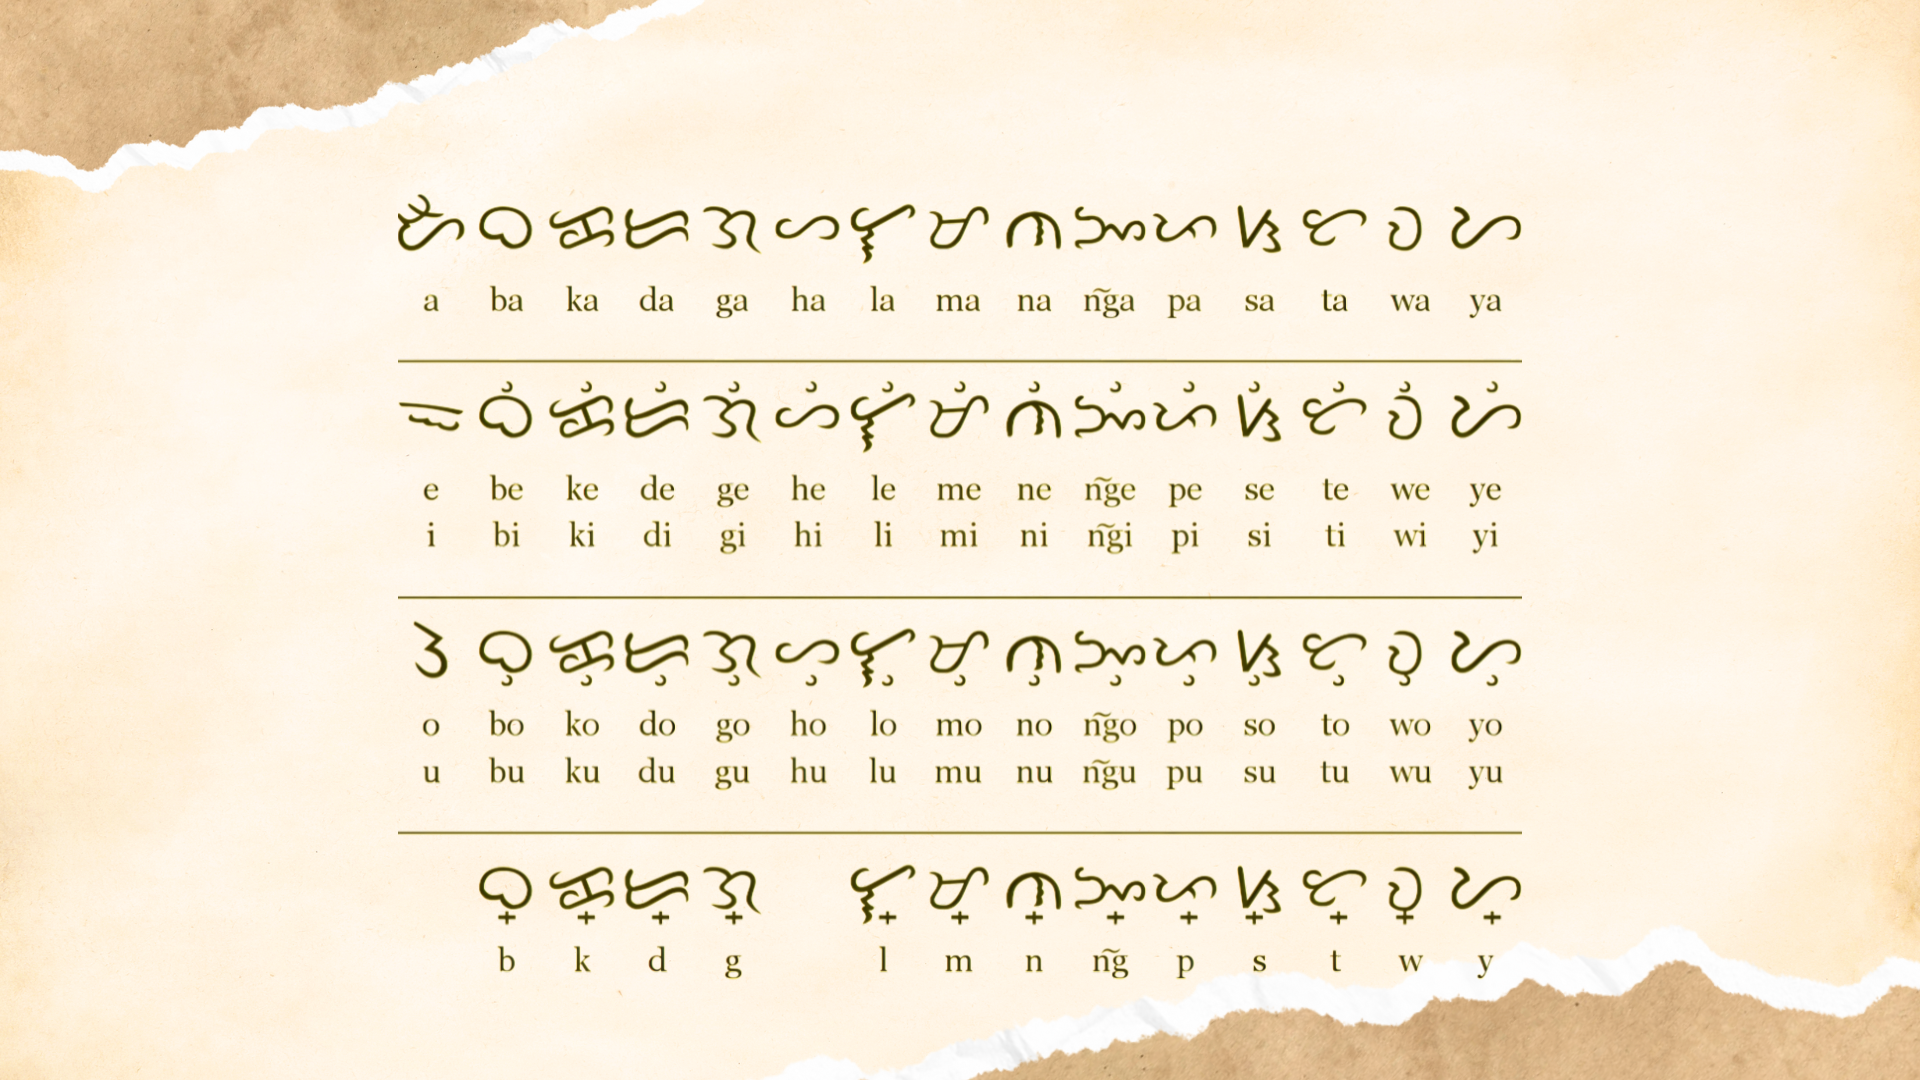
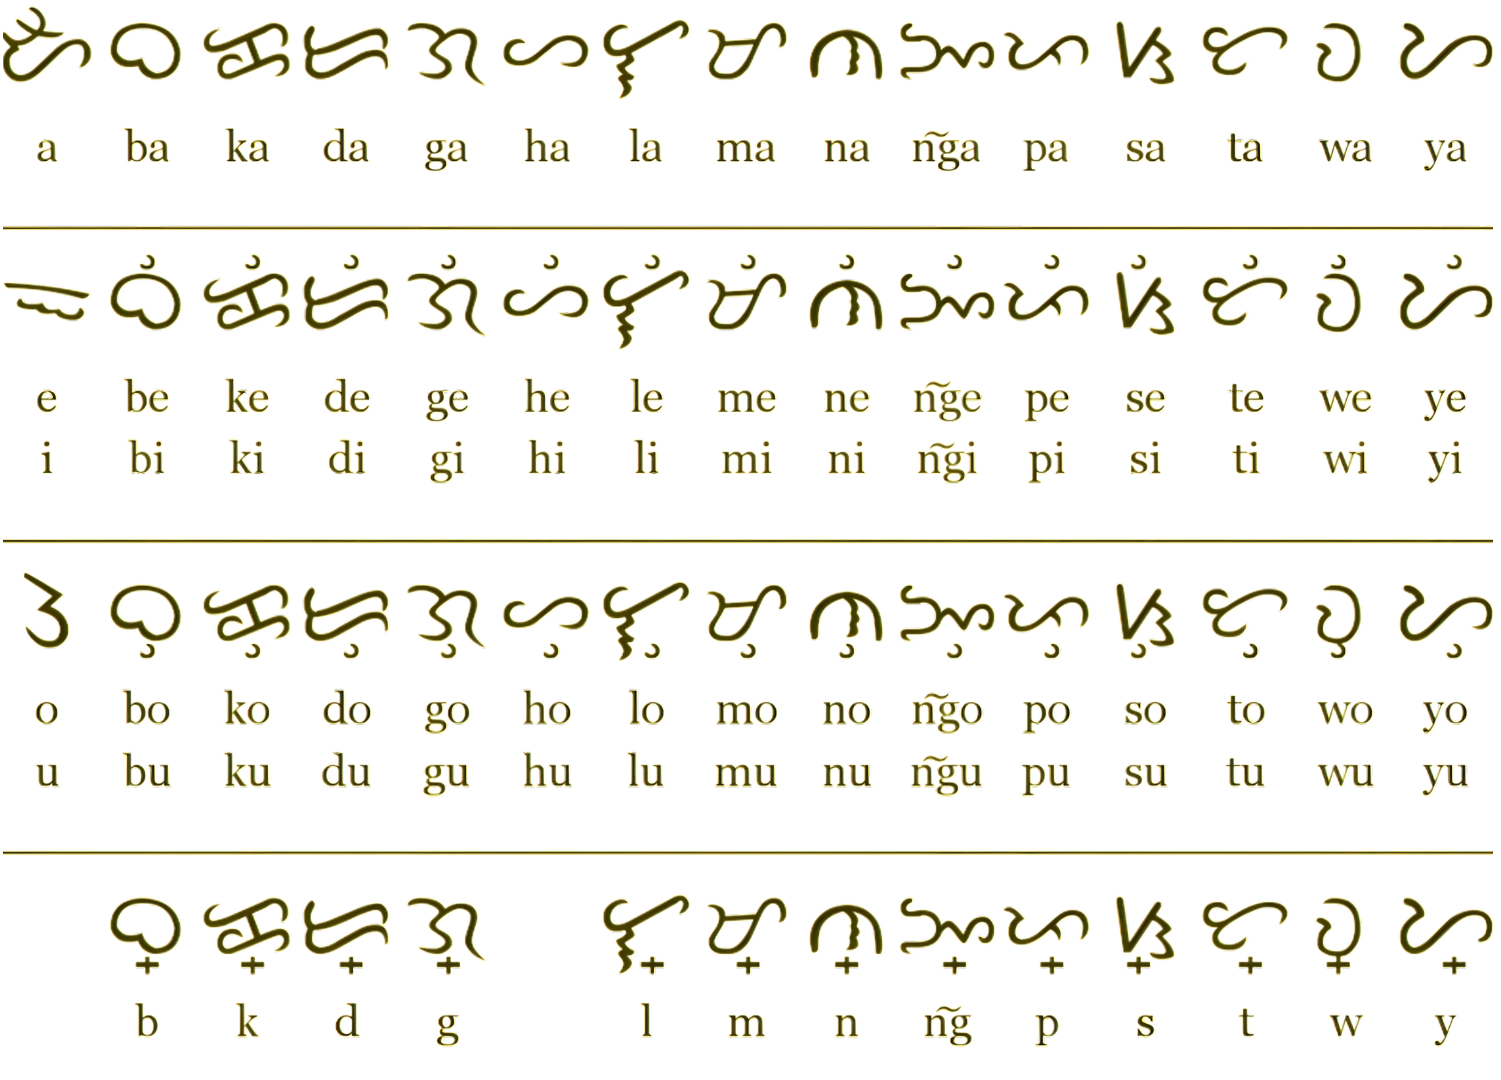
Only thing to fix is the scale the mobile view need to add filipino to english translation

diff --git a/frontend/static/styles.css b/frontend/static/styles.css
@@ -15,10 +15,7 @@ body {
   overflow-x: hidden;
 }
 
-/* For pages using a different background */
-.alphabetBody {
-  background-image: url("assets/BaybayinGuide.png");
-}
+
 
 /* Generic container setup */
 div {
@@ -27,50 +24,53 @@ div {
   align-items: center;
 }
 
+
 /* ==================================
    HOME BUTTON
    ================================== */
 .home-btn {
-  width: clamp(3rem, 5vw, 5rem);
-  height: clamp(3rem, 5vw, 5rem);
+  width: 5rem;
+  height: 5rem;
   background-color: #d4d0ab85;
-  padding: 0.3em;
-  position: fixed;
-  top: 1dvh;
-  left: 1dvh;
+  padding: .3em;
+  margin-left:1dvh;
+  margin-top:1dvh;
   border: 2px outset #a8a58a;
   border-radius: 50%;
-  z-index: 100;
-  transition: transform 0.1s, background-color 0.2s;
 }
 
 .home-btn:active {
   border: 2px inset #a8a58a;
 }
 
-.home-btn a {
-  display: inline-block;
-  width: 20px;
-  height: 20px;
-  border-bottom: 5px solid #a8a58a;
-  border-left: 10px solid #d4d0ab;
-  border-right: 10px solid #d4d0ab;
-  box-shadow: 0 0 0 3px #333, inset 0 0 0 3px #333;
-  position: relative;
-  top: 8px;
-  cursor: pointer;
-  transition: transform 0.1s;
-}
 
+.home-btn a {
+    display: inline-block;
+    width: 20px;
+    height: 20px;
+    border-bottom: 5px solid #a8a58a;
+    border-left: 10px solid #d4d0ab;
+    border-right: 10px solid #d4d0ab;
+    box-shadow: 0 0 0 3px #333, inset 0 0 0 3px #333;
+    position: relative;
+    top: 8px;
+    cursor: pointer;
+    transition: transform 0.1s;
+}
 .home-btn a::before {
-  content: "";
-  position: relative;
-  left: -19px;
-  bottom: 22px;
-  border-bottom: 21px solid #333;
-  border-right: 29px solid transparent;
-  border-left: 29px solid transparent;
-  box-shadow: 0 3px 0 0 #333;
+    content: "";
+    display: block;
+    position: relative;
+    left: -19px;
+    bottom: 22px;
+    border-bottom: 21px solid #333;
+    border-right: 29px solid transparent;
+    border-left: 29px solid transparent;
+    box-shadow: 0px 3px 0 0px #333;
+}
+.home-btn:hover{
+    background-color: #eaac5e;
+    transform: scale(1.05);
 }
 
 /* ==================================
@@ -115,17 +115,37 @@ div {
     width: clamp(100px, 80vw, 320px); /* increases relative width for mobile */
     aspect-ratio: 5 / 2;
   }
+   .alphabet-image{
+    width: clamp(50px, 90vw, 460px);
+  }
 }
 
 /* ==================================
    RESPONSIVE OUTPUT BOXES
    ================================== */
+.output-section {
+justify-content: space-evenly;
+padding-bottom: 30px;
+
+/*font for output text*/
+font-family: 'schoolbell', serif;
+font-size:250%;
+color:#996f3c;
+}
+
 .image-output {
   width: 90%;
   max-width: 600px;
   min-height: 200px;
   max-height: 50vh;
+  margin-bottom:1dvh;
   background: url('assets/InsertBox.png') center/cover no-repeat;
+
+}
+.image-output h2{
+  text-align: center;
+  padding-top: 5dvh;
+
 }
 
 .text-output {
@@ -183,6 +203,8 @@ div {
   .input-button {
     width: clamp(200px, 30%, 480px);
     aspect-ratio: 5 / 2;
+    min-width:600px;
+    max-height:100px;
   }
 
   .image-output {
@@ -219,6 +241,26 @@ div {
   .column {
     flex: 1;
   }
+  .alphabet-image{
+  background-position:center;
+  background-size: contain;
+  background-color: transparent;
+  background-repeat: no-repeat;
+  border: none;
+  box-shadow:none;
+  padding: 0;
+  cursor: pointer;
+  margin-top:20px;
+  transition:transform 0.1;
+     width: clamp(50px, 100vw, 1080px);
+
+  max-height:75dvh;
+}
+
+.alphabet-content:hover{
+  transform: scale(1.05);
+}
+ 
 }
 
 /* ==================================
@@ -241,3 +283,4 @@ div {
   background-color: #eaac5e;
   transform: scale(1.05);
 }
+

diff --git a/frontend/templates/alphabet.html b/frontend/templates/alphabet.html
@@ -9,7 +9,7 @@
             Sulat Baybayin
         </title>
     </head>
-   <body class= "alphabetBody">
+   <body>
        <section>
         <button class="home-btn">
         <a href="{{url_for('index')}}"></a>
@@ -19,10 +19,8 @@
     <header class="alphabet-header">
         <h1> The Baybayin Script</h1>
     </header>
-  
-
-    <section>
-        
-    </section>
+        <div class="alphabet-content">
+            <img src="{{ url_for('static', filename='assets/BaybayinGuide.png') }}" alt="Baybayin Alphabet Guide" class="alphabet-image">
+        </div>
    </body>
 </html>
